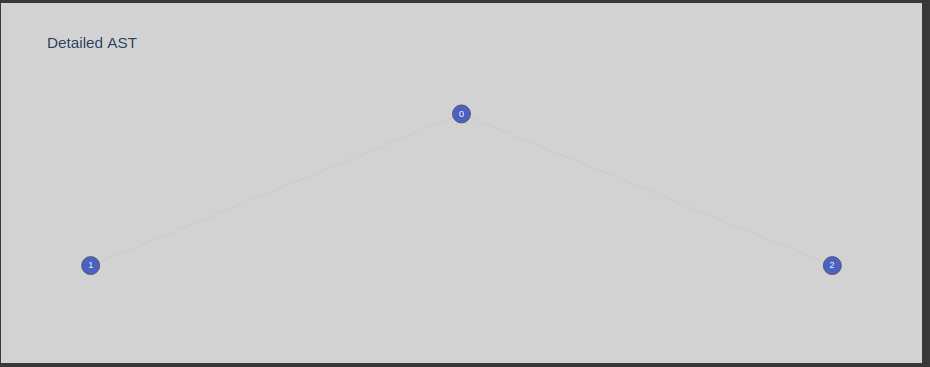
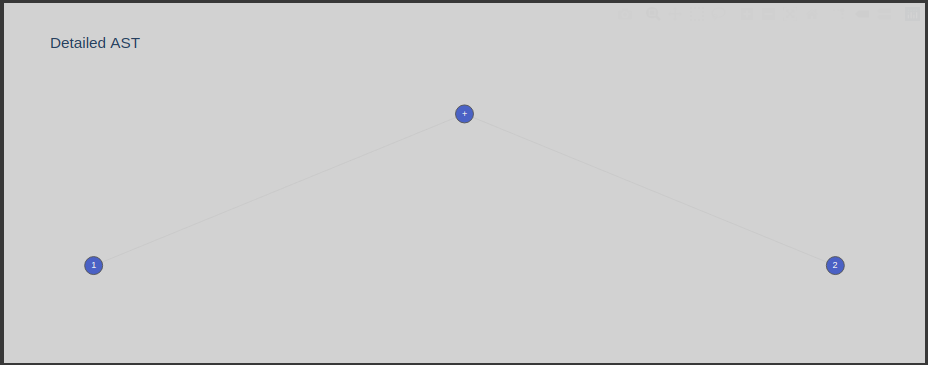
updating images

diff --git a/src/utils/GeneticProgramLibrary/Tree.py b/src/utils/GeneticProgramLibrary/Tree.py
@@ -113,7 +113,7 @@ class Tree():
   def eval_in_order(self):
     if not self.is_leaf:
       res = self.left.eval_in_order()
-      res += self.value.__str__
+      res += self.value.__str__()
       res += self.right.eval_in_order()
       return res
     return str(self.value)
@@ -125,6 +125,6 @@ class Tree():
     if not self.is_leaf:
       res_l = self.left.eval_post_order()
       res_r = self.right.eval_post_order()
-      res = f"{self.value.__name__}({res_l}, {res_r})"      
+      res = f"{self.value.__str__()}({res_l}, {res_r})"      
       return res
     return str(self.value)

diff --git a/README.md b/README.md
@@ -10,7 +10,7 @@ There are two main components of this library the `GeneticProgram` and the `Tree
     Along with the data representation the class also provides the most basic operations for the `Genetic programming` paradigm
     which are `copy`, `print`, `evaluate`.
 
-    Creating a Tree:
+    Creating and Printing a Tree:
 
     ```python
         from Tree import Tree
@@ -21,7 +21,9 @@ There are two main components of this library the `GeneticProgram` and the `Tree
         my_first_tree.print()
     ```
 
-    ![The result will be]()
+    The result will be:
+
+    ![](https://raw.githubusercontent.com/humbertordrgs/NN_GP_T_3/develop/assets/init.png)
     
     In this example we created our first `Tree` instance and there few important things to mention:
 
@@ -29,5 +31,21 @@ There are two main components of this library the `GeneticProgram` and the `Tree
 
     *   Every `Tree` has a size attribute which needs to be consistent and should be **left.size + right.size + 1**. This is achieved modifying the instance using the functions provided in this class and not in a direct way always that the `size` is envolved.
 
+    Copying a Tree:
+
+    This operation is the base of the main Genetic operations and it is pretty simple to use.
+
+    ```python
+        my_copied_tree = my_first_tree.copy()
+        my_first_tree.value = "a"
+        my_copied_tree.print()
+    ```
     
-    
+    The result in this case should be exactly the same as before due to the copy method does not keep any reference to the original instance
+
+    Evaluating a Tree:
+
+    ```python
+        
+
+    ```
